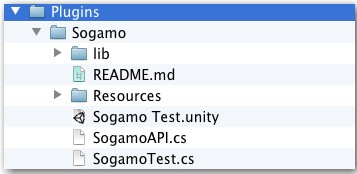
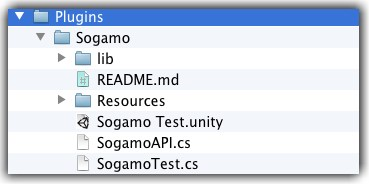
Updated the README file with the draft users guide documentation.

Changed region(s): [[0.0, 0.0, 1.0, 1.0]]

diff --git a/README.md b/README.md
@@ -1,0 +1,93 @@
+# Sogamo Analytics API Unity3D Plugin #
+
+To integrate the Sogamo Analytics API Plugin first download the latest zip archive or clone the repo.
+
+# Requirements #
+1. Unity3d 3.5.5 or above
+
+# Setup #
+Adding the Sogamo Unity3D plugin to your project is just 2 easy steps:
+
+1. Create a folder named 'Sogamo' inside your 'Plugins' folder. If your project does not have a 'Plugins' folder, just create one under your 'Assets' folder. 
+2. Copy the contents from the zip archive / git repo into the newly created 'Sogamo' Folder. 
+	
+![Final Folder Structure][Final Folder Structure]
+
+And that's it!
+
+# Usage #
+## Starting a Session ##
+
+The first thing you need to do is to initialize a SogamoAPI session with your  API key.
+
+###C\# ###
+Start session with just API Key
+
+	SogamoAPI.Instance.StartSession(API_KEY);
+Start session with API Key, Player ID (can be either their Facebook ID or an internal Identifier if your app provides one) and Player Details
+	
+	Dictionary<string, object> userDetails = new Dictionary<string, object>()
+	{
+		{"username", "test_user"},
+		{"firstname", "test"},
+		{"lastname", "user"},
+		{"email", "test_user@test.com"}
+	};	
+	SogamoAPI.Instance.StartSession(API_KEY, PLAYER_ID, userDetails);
+	
+### Javascript ###
+Start session with just API Key
+
+	SogamoAPI.Instance.StartSession(API_KEY);
+Start session with API Key, Player ID (can be either their Facebook ID or an internal Identifier if your app provides one) and Player Details
+
+	var userDetails : Dictionary.<String, Object> = new Dictionary.<String, Object>();
+	userDetails["username"] = "test_user";
+	userDetails["firstname"] = "test";
+	userDetails["lastname"] = "user";
+	userDetails["email"] = "test_user@test.com";
+	SogamoAPI.Instance.StartSession(API_KEY, PLAYER_ID, userDetails);
+	
+## Tracking Events ##
+After starting a session, you are ready to track events. This can be done with the following method:
+
+###C\# ###
+
+		Dictionary<string, object> testEventParams = new Dictionary<string, object>()
+		{
+			{"inviteId", 1024},
+			{"respondedPlayerId", "1024"},
+			{"responseDatetime", DateTime.Now},
+			{"respondedPlayerStatus", "accepted"},
+		};
+		SogamoAPI.Instance.TrackEvent("inviteResponse", testEventParams);
+		
+Note: Event params are to be wrapped in a Dictionary<string, object>. Datetime parameters are to be represented as DateTime objects.
+
+For a full list of the events that can be tracked, visit the [Sogamo website](http://www.sogamo.com)
+		
+### Javascript ###
+
+		var testEventParams : Dictionary.<String, Object> = new Dictionary.<String, Object>();		
+		testEventParams["inviteId"] = 1024;
+		testEventParams["respondedPlayerId"] = "1024";
+		testEventParams["responseDatetime"] = DateTime.Now;
+		testEventParams["respondedPlayerStatus"] = "accepted";		
+		SogamoAPI.Instance.TrackEvent("inviteResponse", testEventParams);
+
+## Closing a Session ##
+Finally, to send the accumulated data to Sogamo, you need to close the session.
+
+###C\# ###
+
+	SogamoAPI.Instance.CloseSession();
+
+### Javascript ###
+
+	SogamoAPI.Instance.CloseSession();
+	
+## Performance Implications ##
+
+The Sogamo Unity3D plugin runs all of its major functions on a background thread, so it does not affect the performance of your application.
+
+[Final Folder Structure]:https://github.com/zelrealm/sogamo-unity3d-library/raw/master/images/Final%20Folder%20Structure.jpg "Final Folder Structure"
